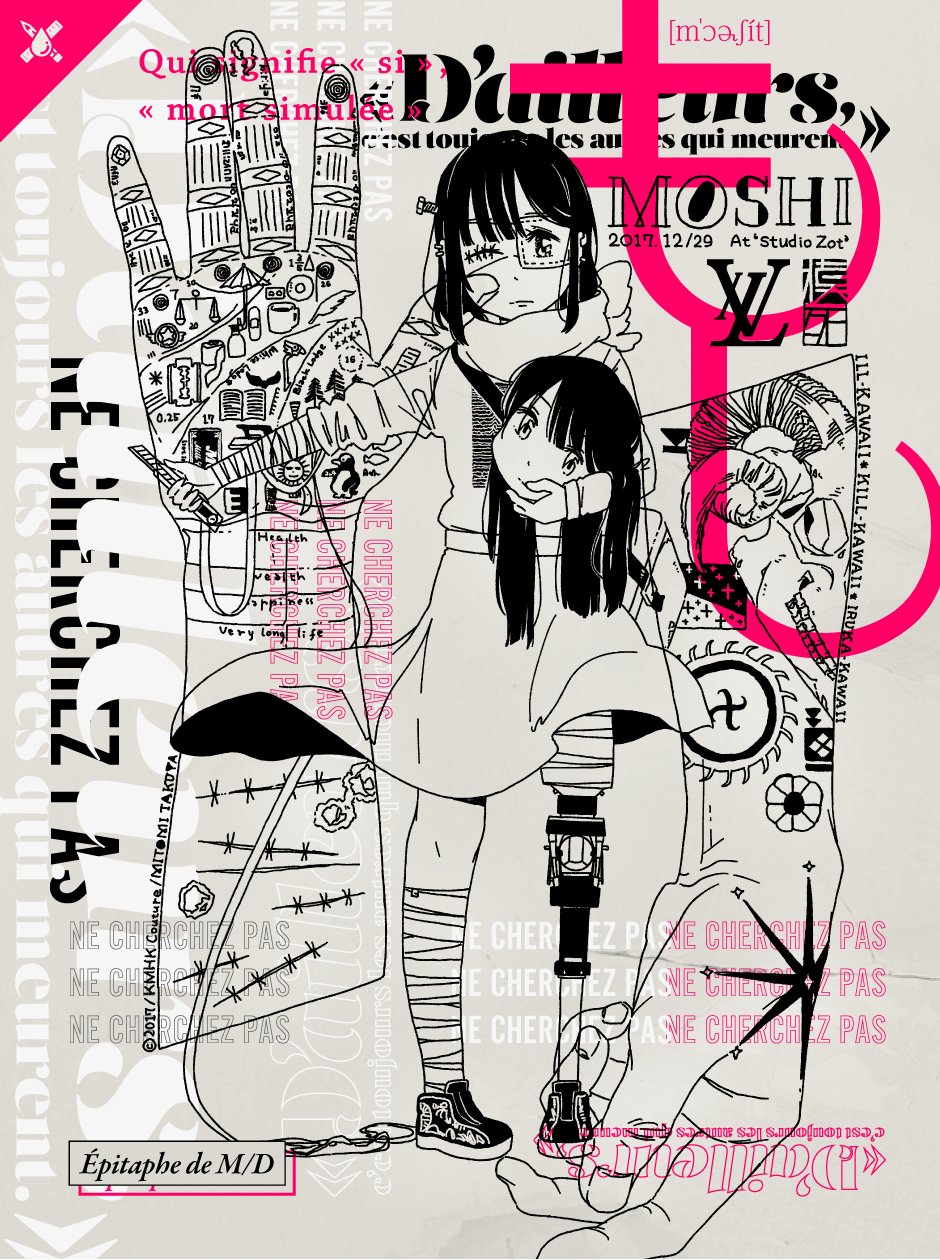
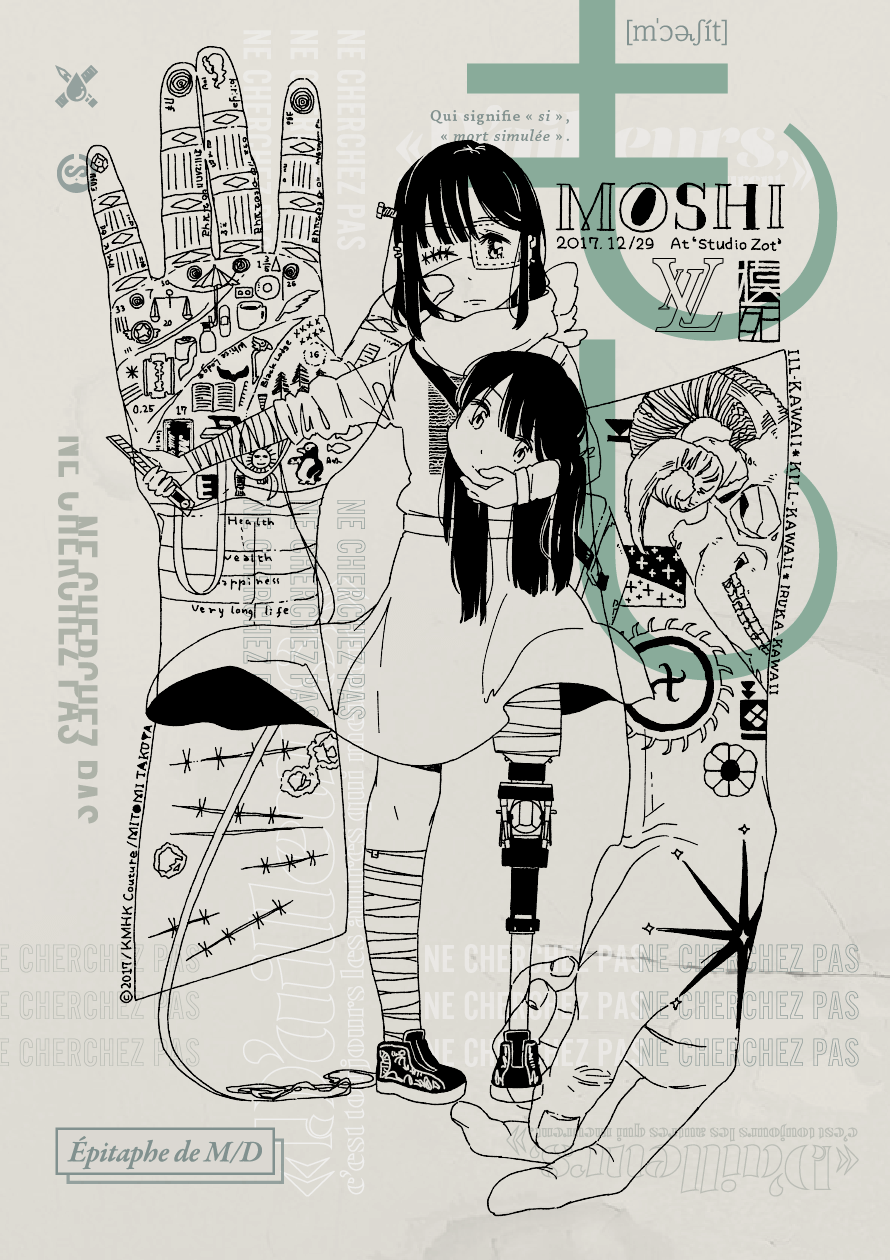
update elegant version

diff --git a/docs/moshi/index.html b/docs/moshi/index.html
@@ -101,7 +101,7 @@
     </article>
     <hr />
     <article class="prudence">
-      <h2>注意事項</h2>
+      <h2>注意事項とか</h2>
       <ul>
         <li>タバコはスタジオ内NGです。ロビーの所定場所でお願いします</li>
         <li>スタジオ内飲食OKです（なぜ？）。隣にスーパーあり、すぐ近くにローソンあり Bring your own style でお願いします
@@ -111,6 +111,12 @@
         </li>
         <li>建物外でムダに屯したり、騒いだりされると、こちらとしても実力行使せざるを得なくなるのでお互いのために止したほういいのではないだろうか</li>
         <li>会場内は電波弱い（4Gも同様）のでインターネットはロビー（おいらロビー）でどうぞです、無料 Wi-Fi もあります</li>
+      </ul>
+      <h3>フライヤー画像ライブラリ</h3>
+      <ul>
+        <li><a href="assets/images/og-image-temporary.png">最初のやつ</a></li>
+        <li><a href="assets/images/og-image-eros.png">デーハーなやつ</a> | <a href="assets/images/header-eros.png">タテ版</a></li>
+        <li><a href="assets/images/og-image-sad.png">エレガンなやつ</a> | <a href="assets/images/header-sad.png">タテ版</a></li>
       </ul>
     </article>
     <hr />

diff --git a/docs/moshi/assets/stylesheets/style.css b/docs/moshi/assets/stylesheets/style.css
@@ -47,8 +47,8 @@ a:hover,
 a:focus,
 a:active
  {
-  color: #ff0066;
-  // color: #35b590;
+  // color: #ff0066;
+  color: #35b590;
 }
 
 h1 {
